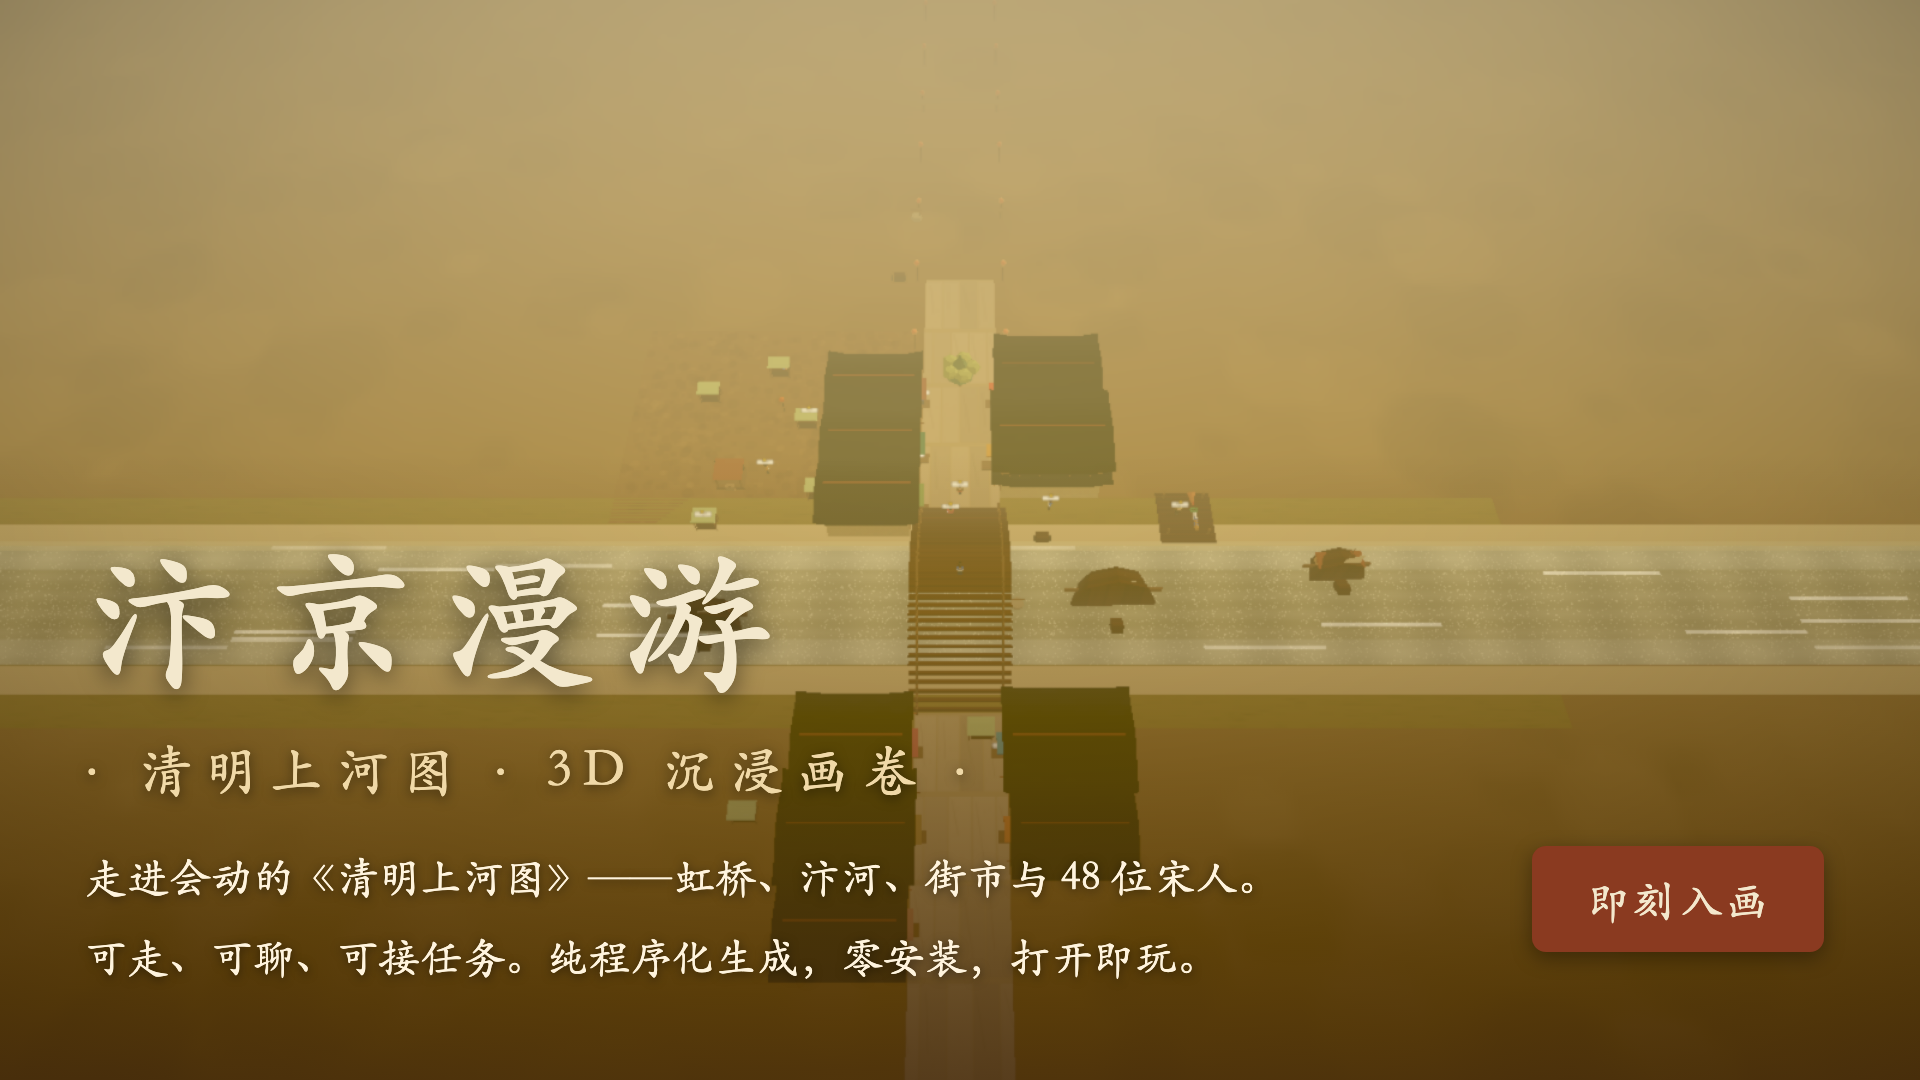
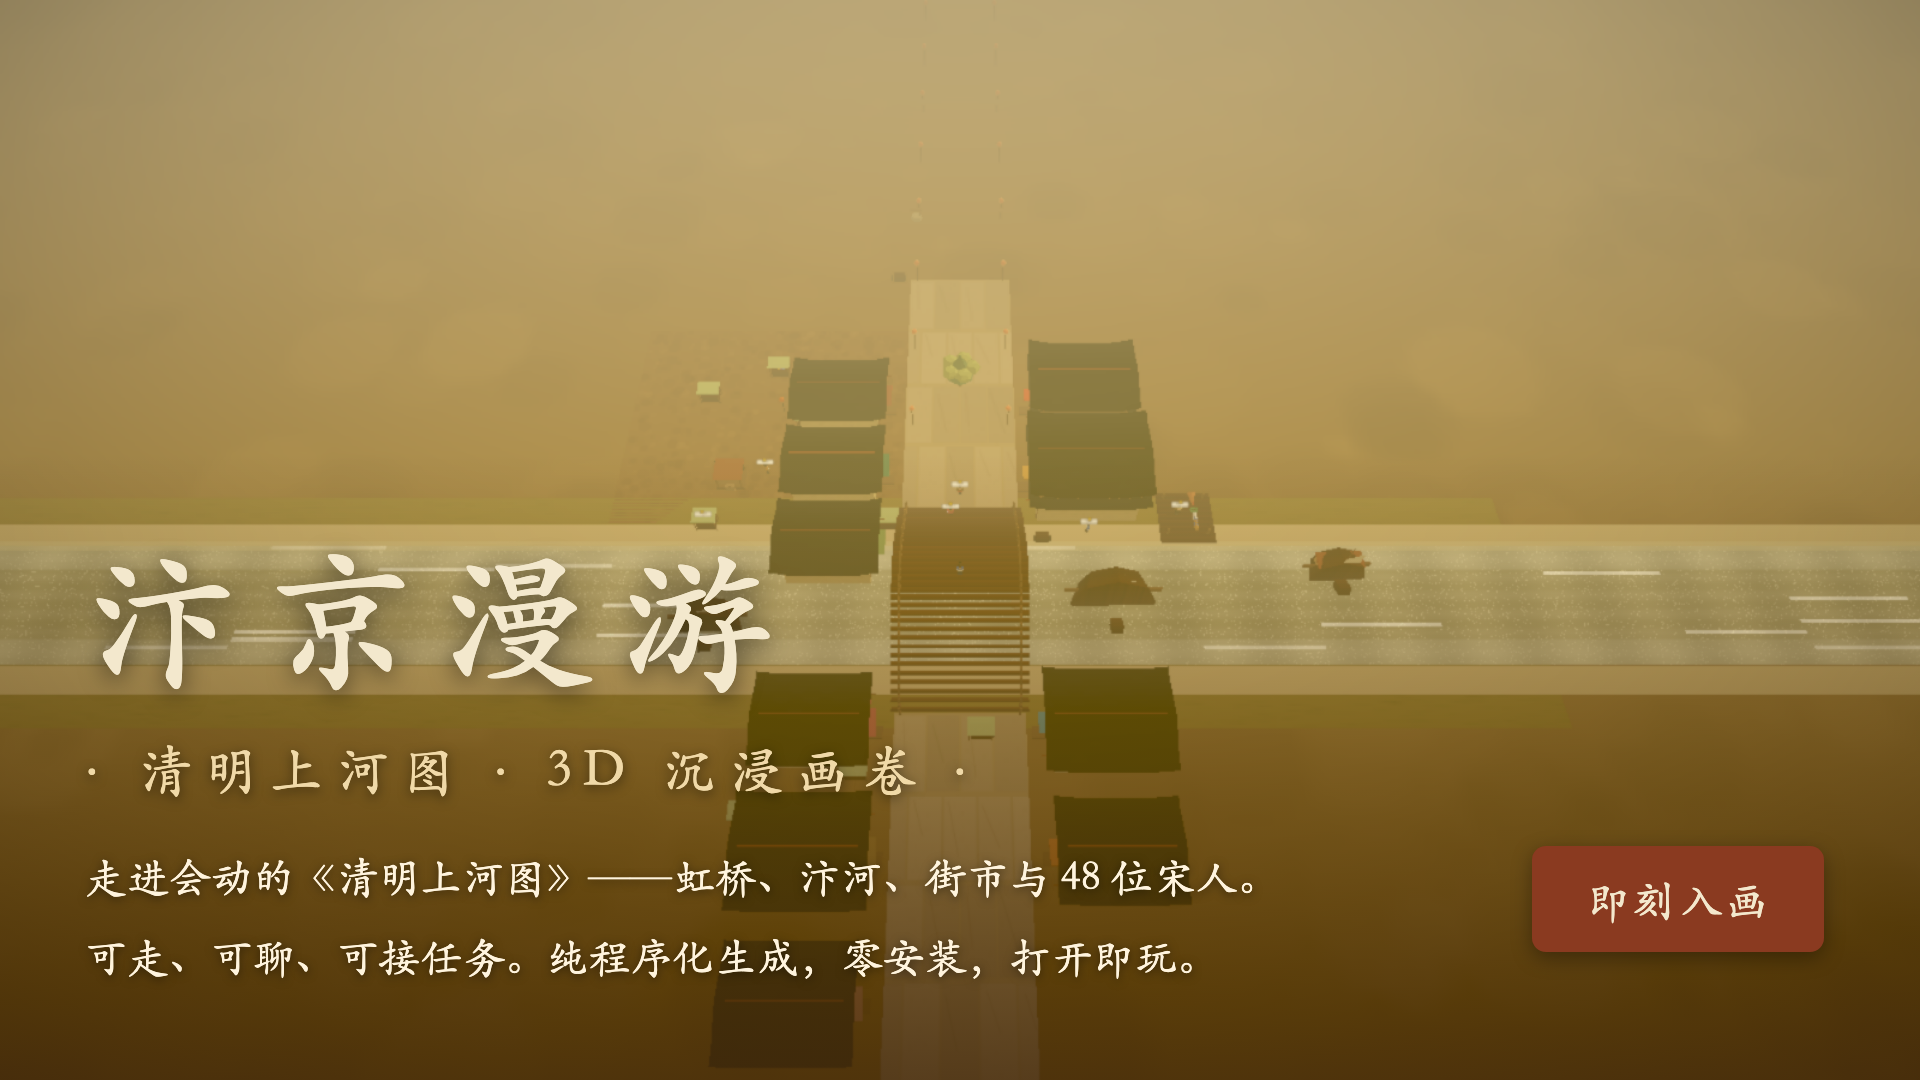
松散化布局：马路加宽 / 楼距拉大 / 间隙种树
① 马路加宽：主街石板路 9→13，虹桥同步加宽（halfW 4.8→6.5）
② 楼距拉大：建筑 x±10→±14，北岸两排 z 3/11/18→4/14~15/24，
   南岸 46/54/62→44/56/68，整体更松散舒适
③ 间隙种树：新增 16 棵建筑间隙/沿路装饰树（楼后/楼间/路侧）
④ 坐标全同步：任务NPC、可交互物、KEEPER_POS、打卡地标、痕迹物
   全部随新坐标重排

selftest/features/qa 全过；E2E 桌面33/手机14 全过，0 控制台错误；
og-cover 与宣传海报重出。

Changed region(s): [[0.375, 0.3056, 0.625, 0.9167]]

diff --git a/src/world/layout.js b/src/world/layout.js
@@ -2,7 +2,7 @@
 import { rand, rf } from '../core/rand.js';
 
 export const RIVER = { zMin: 23, zMax: 37, y: 0.3, halfW: 200 };
-export const BRIDGE = { z0: 18, z1: 42, halfW: 4.8, peak: 6.8 };
+export const BRIDGE = { z0: 18, z1: 42, halfW: 6.5, peak: 6.8 }; // 加宽至与马路一致（13）
 // 码头（北岸东侧，伸向汴河）
 export const DOCK = { x0: 21, x1: 29, z0: 15.5, z1: 22 };
 
@@ -31,20 +31,20 @@ export function groundType(x, z) {
 }
 
 // ============================ 店铺数据 ============================
-// 新布局：建筑分列拱桥两岸（各 5 家，共 10 家），河流保留、无城门
+// 松散布局：建筑分列拱桥两岸（各 5 家），马路更宽、楼间距拉大、间隙种树
 export const BUILDINGS = [
-  // 北岸（桥北，z < 18）
-  { id: 'clinic',  name: '回春堂',   sign: '回春堂', x: -10, z: 3,  w: 9,  d: 7,  banner: '药', bannerColor: '#8a4a3a' },
-  { id: 'tavern',  name: '醉仙楼',   sign: '醉仙楼', x: 10,  z: 3,  w: 10, d: 8,  banner: '酒', bannerColor: '#b8402a' },
-  { id: 'tea',     name: '清风茶肆', sign: '清风茶肆', x: -10, z: 11, w: 9,  d: 7,  banner: '茶', bannerColor: '#2f6d4f' },
-  { id: 'inn',     name: '悦来客栈', sign: '悦来客栈', x: 10,  z: 12, w: 11, d: 9,  banner: '宿', bannerColor: '#b07c36' },
-  { id: 'general', name: '百杂铺',   sign: '百杂铺', x: -10, z: 18, w: 9,  d: 7,  banner: '杂', bannerColor: '#6e8a4f' },
-  // 南岸（桥南，z > 42）
-  { id: 'cloth',   name: '锦绣布庄', sign: '锦绣布庄', x: 10,  z: 46, w: 10, d: 8,  banner: '布', bannerColor: '#3c7a82' },
-  { id: 'butcher', name: '张记肉铺', sign: '张记肉铺', x: -10, z: 46, w: 9,  d: 7,  banner: '肉', bannerColor: '#b04a4a' },
-  { id: 'snack',   name: '桂香点心', sign: '桂香点心', x: 10,  z: 54, w: 9,  d: 7,  banner: '食', bannerColor: '#b0622f' },
-  { id: 'rice',    name: '丰源米铺', sign: '丰源米铺', x: -10, z: 54, w: 10, d: 8,  banner: '米', bannerColor: '#8a6d3b' },
-  { id: 'incense', name: '宝香斋',   sign: '宝香斋', x: -10, z: 62, w: 9,  d: 7,  banner: '香', bannerColor: '#a86e54' },
+  // 北岸（桥北，z < 18；两排、留出间隙）
+  { id: 'clinic',  name: '回春堂',   sign: '回春堂', x: -14, z: 4,  w: 9,  d: 7,  banner: '药', bannerColor: '#8a4a3a' },
+  { id: 'tavern',  name: '醉仙楼',   sign: '醉仙楼', x: 14,  z: 4,  w: 10, d: 8,  banner: '酒', bannerColor: '#b8402a' },
+  { id: 'tea',     name: '清风茶肆', sign: '清风茶肆', x: -14, z: 14, w: 9,  d: 7,  banner: '茶', bannerColor: '#2f6d4f' },
+  { id: 'inn',     name: '悦来客栈', sign: '悦来客栈', x: 14,  z: 15, w: 11, d: 9,  banner: '宿', bannerColor: '#b07c36' },
+  { id: 'general', name: '百杂铺',   sign: '百杂铺', x: -14, z: 24, w: 9,  d: 7,  banner: '杂', bannerColor: '#6e8a4f' },
+  // 南岸（桥南，z > 42；两排、留出间隙）
+  { id: 'cloth',   name: '锦绣布庄', sign: '锦绣布庄', x: 14,  z: 44, w: 10, d: 8,  banner: '布', bannerColor: '#3c7a82' },
+  { id: 'butcher', name: '张记肉铺', sign: '张记肉铺', x: -14, z: 44, w: 9,  d: 7,  banner: '肉', bannerColor: '#b04a4a' },
+  { id: 'snack',   name: '桂香点心', sign: '桂香点心', x: 14,  z: 56, w: 9,  d: 7,  banner: '食', bannerColor: '#b0622f' },
+  { id: 'rice',    name: '丰源米铺', sign: '丰源米铺', x: -14, z: 56, w: 10, d: 8,  banner: '米', bannerColor: '#8a6d3b' },
+  { id: 'incense', name: '宝香斋',   sign: '宝香斋', x: -14, z: 68, w: 9,  d: 7,  banner: '香', bannerColor: '#a86e54' },
 ];
 
 // 运行时填充：店铺墙（带门洞）+ 室内家具 —— 由 buildings/interiors 注册
@@ -102,6 +102,16 @@ treeSeed(-34, 6); treeSeed(-32, 16); treeSeed(-24, -8); treeSeed(-18, -10); tree
 // 南北郊外
 for (let z = -30; z >= -90; z -= 12) { treeSeed(20, z); treeSeed(-20, z + 4); }
 for (let z = 66; z <= 100; z += 10) { treeSeed(18, z); treeSeed(-18, z + 4); }
+// 建筑间隙装饰树（北岸两排之间 + 沿路两侧 + 南岸两排之间）
+const gapTrees = [
+  [-18, 9], [-19, 19], [18, 9], [19, 19],      // 北岸：楼后与楼间
+  [-17, 14.5], [17, 11], [-8, 21], [8, 21],    // 北岸：路侧与桥头
+  [-18, 50], [-18, 62], [18, 50], [18, 62],    // 南岸：楼后与楼间
+  [-17, 56], [17, 44], [-8, 40], [8, 40],      // 南岸：路侧
+];
+for (const [tx, tz] of gapTrees) {
+  if (!inBuildOrDock(tx, tz)) treeSeed(tx + rf(-0.6, 0.6), tz + rf(-0.6, 0.6));
+}
 
 export const treeColliders = TREES.map(t => ({ x: t.x, z: t.z, r: t.r + 0.4 }));
 

diff --git a/src/world/World.js b/src/world/World.js
@@ -67,9 +67,9 @@ function buildInteractables(scene) {
     jar.add(lid);
     wineG.add(jar);
   }
-  wineG.position.set(5, 0.1, 3); // 醉仙楼门前
+  wineG.position.set(9, 0.1, 4); // 醉仙楼门前
   group.add(wineG);
-  items.push({ id: 'wine_jar', label: '酒坛', x: 5, z: 3, group: wineG });
+  items.push({ id: 'wine_jar', label: '酒坛', x: 9, z: 4, group: wineG });
 
   // 米袋（米铺门口）
   const riceG = new THREE.Group();
@@ -80,9 +80,9 @@ function buildInteractables(scene) {
     sack.position.set((i - 1) * 0.55, 0.22, 0);
     riceG.add(sack);
   }
-  riceG.position.set(-4.5, 0.1, 54); // 米铺门前
+  riceG.position.set(-9, 0.1, 56); // 米铺门前
   group.add(riceG);
-  items.push({ id: 'rice_sack', label: '米袋', x: -4.5, z: 54, group: riceG });
+  items.push({ id: 'rice_sack', label: '米袋', x: -9, z: 56, group: riceG });
 
   // 手稿（布庄旁）
   const scriptG = new THREE.Group();
@@ -91,9 +91,9 @@ function buildInteractables(scene) {
   scroll.rotation.x = Math.PI / 2;
   scroll.position.y = 0.15;
   scriptG.add(scroll);
-  scriptG.position.set(5.5, 0.1, 46); // 布庄门前
+  scriptG.position.set(9.5, 0.1, 44); // 布庄门前
   group.add(scriptG);
-  items.push({ id: 'script', label: '手稿', x: 5.5, z: 46, group: scriptG });
+  items.push({ id: 'script', label: '手稿', x: 9.5, z: 44, group: scriptG });
 
   // P2-1 小玩法场景物：说书棚（听书）/ 花灯（猜谜）/ 竞速舟（赛船）
   // 说书棚醒木台（说书棚）
@@ -169,7 +169,7 @@ function buildWorldChanges(scene) {
       puff.scale.y = 1.5;
       smoke.add(puff);
     }
-    smoke.position.set(10, 3.6, 16.5); // 客栈（桥北东）烟囱
+    smoke.position.set(14, 3.6, 19.5); // 客栈（桥北东）烟囱
     hide(smoke);
     changes.inn_wood = smoke;
   }
@@ -180,7 +180,7 @@ function buildWorldChanges(scene) {
       const sack = new THREE.Mesh(flat(new THREE.SphereGeometry(0.34, 8, 6, 0, Math.PI * 2, 0, Math.PI * 0.5)),
         toon({ color: '#c8b088' }));
       sack.scale.y = 1.4;
-      sack.position.set(-13 + i * 0.6, 0.24, 56);
+      sack.position.set(-16.5 + i * 0.6, 0.24, 58);
       sacks.add(sack);
     }
     hide(sacks);
@@ -204,7 +204,7 @@ function buildWorldChanges(scene) {
       const roll = new THREE.Mesh(flat(new THREE.CylinderGeometry(0.2, 0.2, 1.0, 8)),
         toon({ color: ['#e8e0cc', '#5d6f9e'][i] }));
       roll.rotation.x = Math.PI / 2;
-      roll.position.set(6 + i * 0.5, 0.22, 46);
+      roll.position.set(9.5 + i * 0.5, 0.22, 44);
       cloth.add(roll);
     }
     hide(cloth);

diff --git a/src/data/npcs.js b/src/data/npcs.js
@@ -30,23 +30,23 @@ export const NPC_DEFS = [
   // ---- 关键任务 NPC（新布局：桥两岸） ----
   n('huolang', '王货郎', 'huolang', 0, 16, { behavior: 'stand' }),            // 桥北头
   n('tea_stand', '孙婆婆', 'cook', 2, 44, { behavior: 'stand' }),              // 桥南茶摊
-  n('cha_bo', '茶博士', 'tea', -5, 12, { behavior: 'stand' }),                 // 茶肆门前
+  n('cha_bo', '茶博士', 'tea', -10, 14, { behavior: 'stand' }),                // 茶肆门前
   n('shuoshuren', '崔说书', 'storyteller', -22, 13, { behavior: 'stand', home: { x: -26, z: 14 }, heading: -1.2 }),
-  n('daifu', '赵大夫', 'doctor', -4.5, 3, { behavior: 'stand' }),              // 药铺门前
+  n('daifu', '赵大夫', 'doctor', -10, 4, { behavior: 'stand' }),               // 药铺门前
   n('chuanfu', '船老大', 'boatman', 24, 19, { behavior: 'stand' }),            // 码头
   n('yayi', '衙役刘三', 'yamen', -1, 20, { behavior: 'stand' }),               // 桥北巡检
   n('shoujiang', '守将韩威', 'general', 2, 20.5, { behavior: 'stand', heading: 0 }),
-  n('buzhuang', '沈掌柜', 'weaver', 4, 46, { behavior: 'stand' }),             // 布庄门前
+  n('buzhuang', '沈掌柜', 'weaver', 9, 44, { behavior: 'stand' }),             // 布庄门前
   n('tangren', '糖人张', 'vendor', -17.6, 5.6, { behavior: 'stand' }),
 
-  // ---- 街市群像（两岸） ----
-  n('', '张铁柱', 'waiter', 5, 9),        // 北岸·醉仙楼旁
-  n('', '李阿贵', 'waiter', -6, 13),      // 北岸·茶肆旁
+  // ---- 街市群像（两岸，随松散布局外移） ----
+  n('', '张铁柱', 'waiter', 10, 8),       // 北岸·醉仙楼旁
+  n('', '李阿贵', 'waiter', -10, 16),     // 北岸·茶肆旁
   n('', '钱掌柜', 'guest', -7, 20),       // 桥北头
-  n('', '孙二娘', 'woman', 6, 47),        // 南岸·布庄旁
-  n('', '赵大郎', 'guest', -6, 50, { behavior: 'wander' }),  // 南岸·肉铺旁
+  n('', '孙二娘', 'woman', 10, 47),       // 南岸·布庄旁
+  n('', '赵大郎', 'guest', -10, 47, { behavior: 'wander' }),  // 南岸·肉铺旁
   n('', '周五郎', 'porter', 22, 16),      // 码头
-  n('', '郑三嫂', 'cook', -7, 45),        // 南岸·桥南
+  n('', '郑三嫂', 'cook', -7, 47),        // 南岸·桥南
   n('', '吴秀才', 'scholar', 3, 20, { behavior: 'wander' }),  // 桥北头
   n('', '冯四哥', 'guest', 2, 0, { behavior: 'wander' }),
   n('', '陈婆婆', 'woman', -2, 2),

diff --git a/src/data/landmarks.js b/src/data/landmarks.js
@@ -4,13 +4,13 @@ export const LANDMARKS = [
   { id: 'bridge',   name: '虹桥',     desc: '汴河上一弯飞虹，两岸由它相连。',       x: 0,    z: 30,  r: 7 },
   { id: 'dock',     name: '汴河码头', desc: '货船靠岸，纤夫号子此起彼伏。',         x: 25,   z: 18,  r: 6 },
   { id: 'gazebo',   name: '观山亭',   desc: '登亭远眺，北山如黛，汴水如带。',       x: -6,   z: 2,   r: 5 },
-  { id: 'tavern',   name: '醉仙楼',   desc: '酒幌高挑，客商把酒言欢。',             x: 10,   z: 3,   r: 6 },
-  { id: 'tea',      name: '清风茶肆', desc: '新茶上市，茶博士高声吆喝。',           x: -10,  z: 11,  r: 6 },
-  { id: 'inn',      name: '悦来客栈', desc: '门前灯笼高挂，往来客商歇脚。',         x: 10,   z: 12,  r: 6 },
-  { id: 'clinic',   name: '回春堂',   desc: '药幌迎风，药香满街。',                 x: -10,  z: 3,   r: 6 },
-  { id: 'cloth',    name: '锦绣布庄', desc: '绫罗绸缎，五色斑斓。',                 x: 10,   z: 46,  r: 6 },
+  { id: 'tavern',   name: '醉仙楼',   desc: '酒幌高挑，客商把酒言欢。',             x: 14,   z: 4,   r: 6 },
+  { id: 'tea',      name: '清风茶肆', desc: '新茶上市，茶博士高声吆喝。',           x: -14,  z: 14,  r: 6 },
+  { id: 'inn',      name: '悦来客栈', desc: '门前灯笼高挂，往来客商歇脚。',         x: 14,   z: 15,  r: 6 },
+  { id: 'clinic',   name: '回春堂',   desc: '药幌迎风，药香满街。',                 x: -14,  z: 4,   r: 6 },
+  { id: 'cloth',    name: '锦绣布庄', desc: '绫罗绸缎，五色斑斓。',                 x: 14,   z: 44,  r: 6 },
   { id: 'story',    name: '说书棚',   desc: '醒木一拍，满棚喝彩。',                 x: -26,  z: 14,  r: 7 },
   { id: 'sugar',    name: '糖人摊',   desc: '糖人张手巧，捏啥像啥。',               x: -18,  z: 6,   r: 5 },
   { id: 'teastand', name: '桥南茶摊', desc: '茶香缭绕，过桥人歇脚之处。',           x: 2,    z: 44,  r: 5 },
-  { id: 'rice',     name: '丰源米铺', desc: '米缸满仓，粮行买卖兴隆。',             x: -10,  z: 54,  r: 6 },
+  { id: 'rice',     name: '丰源米铺', desc: '米缸满仓，粮行买卖兴隆。',             x: -14,  z: 56,  r: 6 },
 ];

diff --git a/src/world/interiors.js b/src/world/interiors.js
@@ -206,11 +206,11 @@ function lantern(x, y, z) {
 // ============================================================
 
 // 各店掌柜站位（避开家具的预留空位，经碰撞核对）
-// 掌柜站位（新布局：两岸店铺；b.z - facing*hd + 1.4 即默认门口内侧）
+// 掌柜站位（松散布局：两岸店铺 x±14；b.z - facing*hd + 1.4 即默认门口内侧）
 const KEEPER_POS = {
-  tavern: [10.0, 8.4], tea: [-10.0, 8.9], inn: [10.0, 17.9],
-  clinic: [-10.0, 0.9], cloth: [10.0, 51.4], incense: [-10.0, 59.9],
-  general: [-10.0, 15.9], snack: [10.0, 58.9], butcher: [-10.0, 43.9], rice: [-10.0, 51.4],
+  tavern: [14.0, 9.4], tea: [-14.0, 11.9], inn: [14.0, 20.9],
+  clinic: [-14.0, 1.9], cloth: [14.0, 49.4], incense: [-14.0, 65.9],
+  general: [-14.0, 21.9], snack: [14.0, 60.9], butcher: [-14.0, 41.9], rice: [-14.0, 53.4],
 };
 
 export function buildInterior(b) {

diff --git a/src/world/terrain.js b/src/world/terrain.js
@@ -26,9 +26,9 @@ export function buildTerrain(scene) {
   bankS.position.set(-40, 0.02, RIVER.zMax + 3);
   group.add(bankS);
 
-  // ---- 主街石板路：北岸段 + 南岸段（由虹桥连接） ----
+  // ---- 主街石板路：北岸段 + 南岸段（由虹桥连接，路面加宽至 13） ----
   const roadMat = toon({ color: 0xcfc0a2, map: roadTexture() });
-  const roadGeo = flat(new THREE.PlaneGeometry(9, 1));
+  const roadGeo = flat(new THREE.PlaneGeometry(13, 1));
   function addRoad(cx, cz, len) {
     const r = new THREE.Mesh(roadGeo, roadMat);
     r.rotation.x = -Math.PI / 2;

diff --git a/docs/04-CHANGELOG.md b/docs/04-CHANGELOG.md
@@ -162,6 +162,12 @@
 |---|---|
 | `65bf791` | **山更远**：近层山从 z±118~140 推远到 z±136~154，远层到 z±168~178。**初始面向拱桥**：出生 yaw π→0（面朝 +z 桥方向），出生点 z-18→-8。**背后 NPC 减少**：街道 NPC 全部从旧负 z 迁到两岸（原 8 名旧街NPC被排查出仍在 -z 空地里），顺带修复 **KEEPER_POS 硬编码旧坐标**导致掌柜全部落在旧街负 z 的问题（更新为两岸新坐标，QA keeperFree 验证不占家具）。**去掉桥中遮阳亭**：bridge.js 移除亭顶/四柱。全量回归：selftest/features/qa 全过，E2E 桌面 33/手机 14 全过，0 控制台错误；og-cover 与海报重出 |
 
+## 阶段二十五：松散化布局（马路加宽 · 楼距拉大 · 间隙种树）
+
+| 提交 | 内容 |
+|---|---|
+| `(待补)` | **马路加宽**：主街石板路 9→13，虹桥同步加宽（halfW 4.8→6.5）保证可通行与路面一致。**楼距拉大**：建筑由 x±10 外移到 x±14，北岸两排 z 3/11/18 → 4/14~15/24，南岸 46/54/62 → 44/56/68，整体更松散。**间隙种树**：新增 16 棵建筑间隙/沿路装饰树（楼后、楼间、路侧），总数 ~116 实例。**坐标全同步**：任务 NPC（茶博士/赵大夫/沈掌柜等）、可交互物（酒坛/米袋/手稿）、KEEPER_POS、打卡地标、痕迹物（客栈冒烟/米袋/布卷）全部随新坐标重排。selftest/features/qa 全过，E2E 桌面 33/手机 14 全过，0 控制台错误；og-cover 与海报重出 |
+
 ## 经验教训（后续开发必读）
 
 1. **真实 GPU 与 swiftshader 渲染有差异**：部分伪影仅真机出现，务必用"用户截图分析 + 真机调试工具（射线检测）"定位，勿只依赖本地无头测试。
